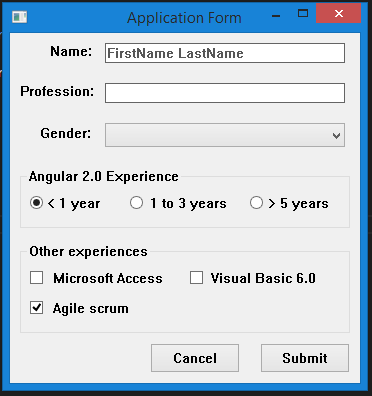
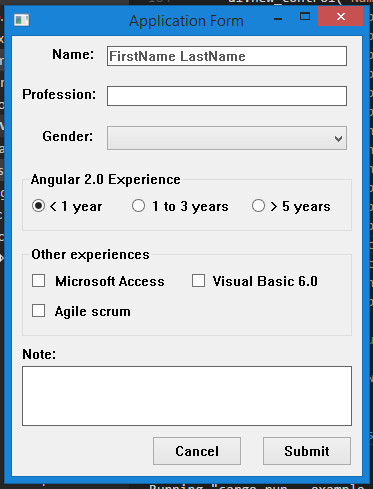
textbox base

diff --git a/src/controls/textbox.rs b/src/controls/textbox.rs
@@ -1,0 +1,149 @@
+/*!
+    A multiline text edit
+*/
+
+use std::hash::Hash;
+
+use controls::ControlTemplate;
+use controls::base::{WindowBase, create_base, set_window_text, get_window_text,
+ get_window_pos, set_window_pos, get_window_size, set_window_size, get_window_parent,
+ set_window_parent, get_window_enabled, set_window_enabled, get_window_visibility,
+ set_window_visibility, to_utf16, get_control_type};
+use actions::{Action, ActionReturn};
+use events::Event;
+use constants::{ControlType};
+
+use winapi::{HWND, WS_BORDER, ES_AUTOHSCROLL, ES_READONLY, ES_MULTILINE, ES_AUTOVSCROLL};
+
+/**
+    Configuration properties to create a simple TextInput
+
+    * text: The button text
+    * size: The button size (width, height) in pixels
+    * position: The button position (x, y) in the parent control
+    * parent: The control parent
+*/
+pub struct TextBox<ID: Eq+Clone+Hash> {
+    pub text: String,
+    pub size: (u32, u32),
+    pub position: (i32, i32),
+    pub parent: ID,
+    pub readonly: bool
+}
+
+impl<ID: Eq+Clone+Hash > ControlTemplate<ID> for TextBox<ID> {
+
+    fn create(&self, ui: &mut ::Ui<ID>, id: ID) -> Result<HWND, ()> {
+        let mut extra = 0;
+        if self.readonly {
+            extra |= ES_READONLY;
+        }
+
+        let base = WindowBase::<ID> {
+            text: self.text.clone(),
+            size: self.size.clone(),
+            position: self.position.clone(),
+            visible: true,
+            resizable: false,
+            extra_style: extra | WS_BORDER | ES_AUTOHSCROLL | ES_MULTILINE | ES_AUTOVSCROLL,
+            class: "EDIT".to_string(),
+            parent: Some(self.parent.clone())
+        };
+
+        let handle = unsafe { create_base::<ID>(ui, base) };
+        match handle {
+            Ok(h) => {
+                 Ok(h)
+            }
+            e => e
+        }
+    }
+
+    fn supported_events(&self) -> Vec<Event> {
+        vec![Event::MouseUp, Event::MouseDown, Event::Focus, Event::ValueChanged, Event::MaxValue,
+             Event::Removed]
+    }
+
+    fn evaluator(&self) -> ::ActionEvaluator<ID> {
+        Box::new( |ui, id, handle, action| {
+            match action {
+                Action::SetText(t) => set_window_text(handle, *t),
+                Action::GetText => get_window_text(handle),
+                Action::GetPosition => get_window_pos(handle, true),
+                Action::SetPosition(x, y) => set_window_pos(handle, x, y),
+                Action::GetSize => get_window_size(handle),
+                Action::SetSize(w, h) => set_window_size(handle, w, h),
+                Action::GetParent => get_window_parent(handle),
+                Action::SetParent(p) => set_window_parent(ui, handle, p, true),
+                Action::GetEnabled => get_window_enabled(handle),
+                Action::SetEnabled(e) => set_window_enabled(handle, e),
+                Action::GetVisibility => get_window_visibility(handle),
+                Action::SetVisibility(v) => set_window_visibility(handle, v),
+                Action::Reset => set_window_text(handle, "".to_string()),
+                Action::GetControlType => get_control_type(handle),
+
+                Action::GetTextLimit => get_text_limit(handle),
+                Action::SetTextLimit(l) => set_text_limit(handle, l),
+                Action::GetSelectedBounds => get_select_bounds(handle),
+                Action::SetSelectedBounds(b) => set_select_bounds(handle, b),
+                Action::GetReadonly => get_readonly(handle),
+                Action::SetReadonly(r) => set_readonly(handle, r),
+                Action::Undo => undo_text(handle),
+
+                _ => ActionReturn::NotSupported
+            }
+        })
+    }
+
+    fn control_type(&self) -> ControlType {
+        ControlType::TextBox
+    }
+
+
+}
+
+use winapi::{EM_LIMITTEXT, EM_GETLIMITTEXT, UINT, WPARAM, WM_UNDO, EM_GETSEL, DWORD, EM_SETSEL,
+ LPARAM, EM_SETREADONLY, GWL_STYLE, LONG_PTR};
+use user32::GetWindowLongPtrW;
+use controls::base::{send_message};
+use std::mem;
+
+fn get_text_limit<ID: Eq+Clone+Hash>(handle: HWND) -> ActionReturn<ID> {
+    let limit = send_message(handle, EM_GETLIMITTEXT as UINT, 0, 0) as u32;
+    ActionReturn::TextLimit(limit)
+}
+
+fn set_text_limit<ID: Eq+Clone+Hash>(handle: HWND, limit: u32) -> ActionReturn<ID> {
+    send_message(handle, EM_LIMITTEXT as UINT, limit as WPARAM, 0);
+    ActionReturn::None
+}
+
+fn undo_text<ID: Eq+Clone+Hash>(handle: HWND) -> ActionReturn<ID> {
+    send_message(handle, WM_UNDO as UINT, 0, 0);
+    ActionReturn::None
+}
+
+fn get_select_bounds<ID: Eq+Clone+Hash>(handle: HWND) -> ActionReturn<ID> {
+    let mut min: DWORD = 0;
+    let mut max: DWORD = 0;
+    
+    unsafe{ send_message(handle, EM_GETSEL as u32, mem::transmute(&mut min), mem::transmute(&mut max)) };
+
+    ActionReturn::SelectBounds((min as u32, max as u32))
+}
+
+fn set_select_bounds<ID: Eq+Clone+Hash>(handle: HWND, bounds: (u32, u32)) -> ActionReturn<ID> {
+    send_message(handle, EM_SETSEL as u32, bounds.0 as WPARAM, bounds.1 as LPARAM);
+    ActionReturn::None
+}
+
+fn get_readonly<ID: Eq+Clone+Hash>(handle: HWND) -> ActionReturn<ID> { unsafe{
+    let read_only = ES_READONLY as LONG_PTR;
+    ActionReturn::Readonly( GetWindowLongPtrW(handle, GWL_STYLE) & read_only == read_only )
+}}
+
+fn set_readonly<ID: Eq+Clone+Hash>(handle: HWND, readonly: bool) -> ActionReturn<ID> {
+    send_message(handle, EM_SETREADONLY as u32, readonly as WPARAM, 0);
+    ActionReturn::None
+}
+

diff --git a/examples/simple_form.rs b/examples/simple_form.rs
@@ -1,7 +1,7 @@
 extern crate native_windows_gui as nwg;
 
 use nwg::Ui;
-use nwg::controls::{Label, Window, TextInput, GroupBox, RadioButton, ComboBox, CheckBox, Button};
+use nwg::controls::{Label, Window, TextInput, GroupBox, RadioButton, ComboBox, CheckBox, Button, TextBox};
 use nwg::actions::{Action, ActionReturn};
 use nwg::actions::helper as actions_help;
 use nwg::events::EventCallback;
@@ -19,7 +19,7 @@ fn col(c: &[&'static str]) -> Vec<String> {
 fn setup_controls(ui: &mut Ui<&'static str>) {
     let main_window = Window {
         caption: "Application Form".to_string(),
-        size: (350, 350),
+        size: (350, 440),
         position: (100, 100),
         visible: false,
         resizable: false,
@@ -147,10 +147,26 @@ fn setup_controls(ui: &mut Ui<&'static str>) {
         text_align: (HTextAlign::Center, VTextAlign::Center),
     };
 
+    let note_label = Label {
+        text: "Note:".to_string(),
+        size: (60, 20),
+        position: (10, 310),
+        parent: "MainWindow",
+        text_align: HTextAlign::Left
+    };
+
+    let note_tb = TextBox {
+        text: "".to_string(),
+        size: (330, 60),
+        position: (10, 330),
+        parent: "MainWindow",
+        readonly: false
+    };
+
     let cancel_button = Button {
         text: "Cancel".to_string(),
         size: (90, 30),
-        position: (140, 310),
+        position: (140, 400),
         parent: "MainWindow",
         text_align: (HTextAlign::Center, VTextAlign::Center),
     };
@@ -158,7 +174,7 @@ fn setup_controls(ui: &mut Ui<&'static str>) {
     let submit_button = Button {
         text: "Submit".to_string(),
         size: (90, 30),
-        position: (250, 310),
+        position: (250, 400),
         parent: "MainWindow",
         text_align: (HTextAlign::Center, VTextAlign::Center),
     };
@@ -178,6 +194,8 @@ fn setup_controls(ui: &mut Ui<&'static str>) {
     ui.new_control("ExpAccess", exp_access).unwrap();
     ui.new_control("ExpVb6", exp_vb6).unwrap();
     ui.new_control("ExpAgile", exp_agile).unwrap();
+    ui.new_control("NoteLabel", note_label).unwrap();
+    ui.new_control("NoteText", note_tb).unwrap();
     ui.new_control("Cancel", cancel_button).unwrap();
     ui.new_control("Submit", submit_button).unwrap();
 

diff --git a/src/lib.rs b/src/lib.rs
@@ -173,10 +173,11 @@ impl<ID: Eq+Clone+Hash> Ui<ID> {
     */
     pub fn unbind(&self, cont: ID, name: ID, event: events::Event) -> Result<(), Error> {
         let controls: &mut ControlCollection<ID> = unsafe{ &mut *self.controls };
+        let _hash = hash(&name);
         if let Some(&(handle, _)) = controls.get(&cont) {
             let data: &mut WindowData<ID> = controls::get_handle_data(handle);
             if let Some(functions) = data.callbacks.get_mut(&event) {
-                if let Some(pos) = functions.iter().position(|&(ref id, _)| hash(id) == hash(&name)) {
+                if let Some(pos) = functions.iter().position(|&(ref id, _)| hash(id) == _hash) {
                     functions.remove(pos);
                     Ok(())
                 } else {

diff --git a/src/controls/mod.rs b/src/controls/mod.rs
@@ -13,6 +13,7 @@ pub mod textinput;
 pub mod combobox;
 pub mod label;
 pub mod frame;
+pub mod textbox;
 
 pub use controls::window::Window;
 pub use controls::button::Button;
@@ -23,6 +24,7 @@ pub use controls::textinput::TextInput;
 pub use controls::combobox::ComboBox;
 pub use controls::label::Label;
 pub use controls::frame::Frame;
+pub use controls::textbox::TextBox;
 
 use std::hash::Hash;
 use winapi::HWND;

diff --git a/src/constants.rs b/src/constants.rs
@@ -33,6 +33,7 @@ pub enum ControlType {
     Window,
     Label,
     Frame,
+    TextBox
 }
 
 #[derive(PartialEq, Debug)]
